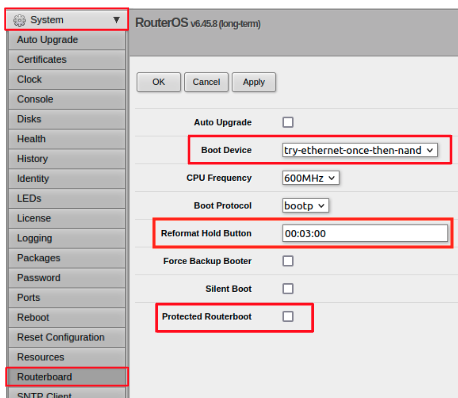
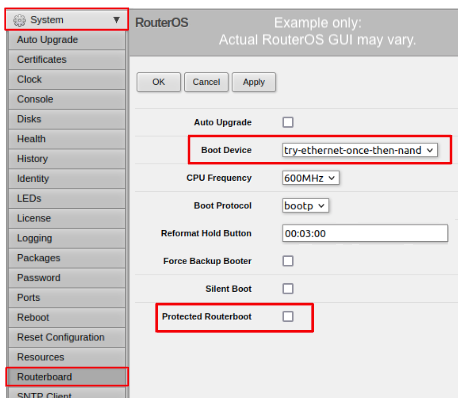
clarify mikrotik etherboot settings

Changed region(s): [[0.3057, 0.5427, 1.0, 0.6332], [0.4279, 0.0302, 0.917, 0.1206]]

diff --git a/arednGettingStarted/installing_firmware.rst b/arednGettingStarted/installing_firmware.rst
@@ -204,13 +204,15 @@ Download the *Install Checklist* for Mikrotik devices. These devices require a *
 
 Mikrotik devices have a built-in `PXE <https://en.wikipedia.org/wiki/Preboot_Execution_Environment>`_ *client* which allows them to download a boot image from an external source. You will need to install and configure a `PXE <https://en.wikipedia.org/wiki/Preboot_Execution_Environment>`_ *server* on your Windows computer. The example below uses *Tiny PXE*. For more information, see the **Preparing Your Computer** section above. For most Mikrotik devices the install steps below will work without issue.
 
+For Mikrotik devices you will use what is called *Etherboot* mode, and there are several ways to put your device into *Etherboot* mode (depending on the version of the manufacturer's firmware it is running). The easiest way is to use the device's reset button as described in the procedure below. If for some reason this does not work, then you can try logging into the Mikrotik RouterOS and setting *System > Routerboard > Settings > Boot Device* to ``try-ethernet-once-then-nand`` (either through the RouterOS web interface or via command line). Next time the device boots it will try *Etherboot* once before defaulting back to regular boot mode.
+
 .. image:: _images/mikrotik-protectboot.png
   :alt: Uncheck Mikrotik Protected Boot
   :align: right
 
 **Potential RouterOS Issue**
 
-If your Mikrotik device has "Protected Routerboot" enabled, then you will need to disable it before proceeding. Use the manufacturer's instructions to connect to your device and display the RouterOS web interface. Navigate to the *System > Routerboard* section. Click the *Settings* button to verify that the *Boot Device* is set to ``try-ethernet-once-then-nand`` and uncheck or deselect ``Protected Routerboot`` as shown in the example image. You can also verify that enough time is entered in the *Reformat Hold Button* field to complete the file transfer. Click the *Apply* button, then you should be able to power down the device and continue with the steps in the AREDN |trade| firmware install checklist.
+If your Mikrotik device has "Protected Routerboot" enabled, then you will need to disable it before proceeding. Use the manufacturer's instructions to connect to your device and display the RouterOS web interface or command line. Navigate to *System > Routerboard > Settings > Boot Device* to uncheck or deselect ``Protected Routerboot``. Click the *Apply* button, then you should be able to power down the device and continue with the steps in the AREDN |trade| firmware install checklist.
 
 .. image:: _images/mikrotik-factoryfw.png
   :alt: Uncheck Mikrotik Protected Boot
